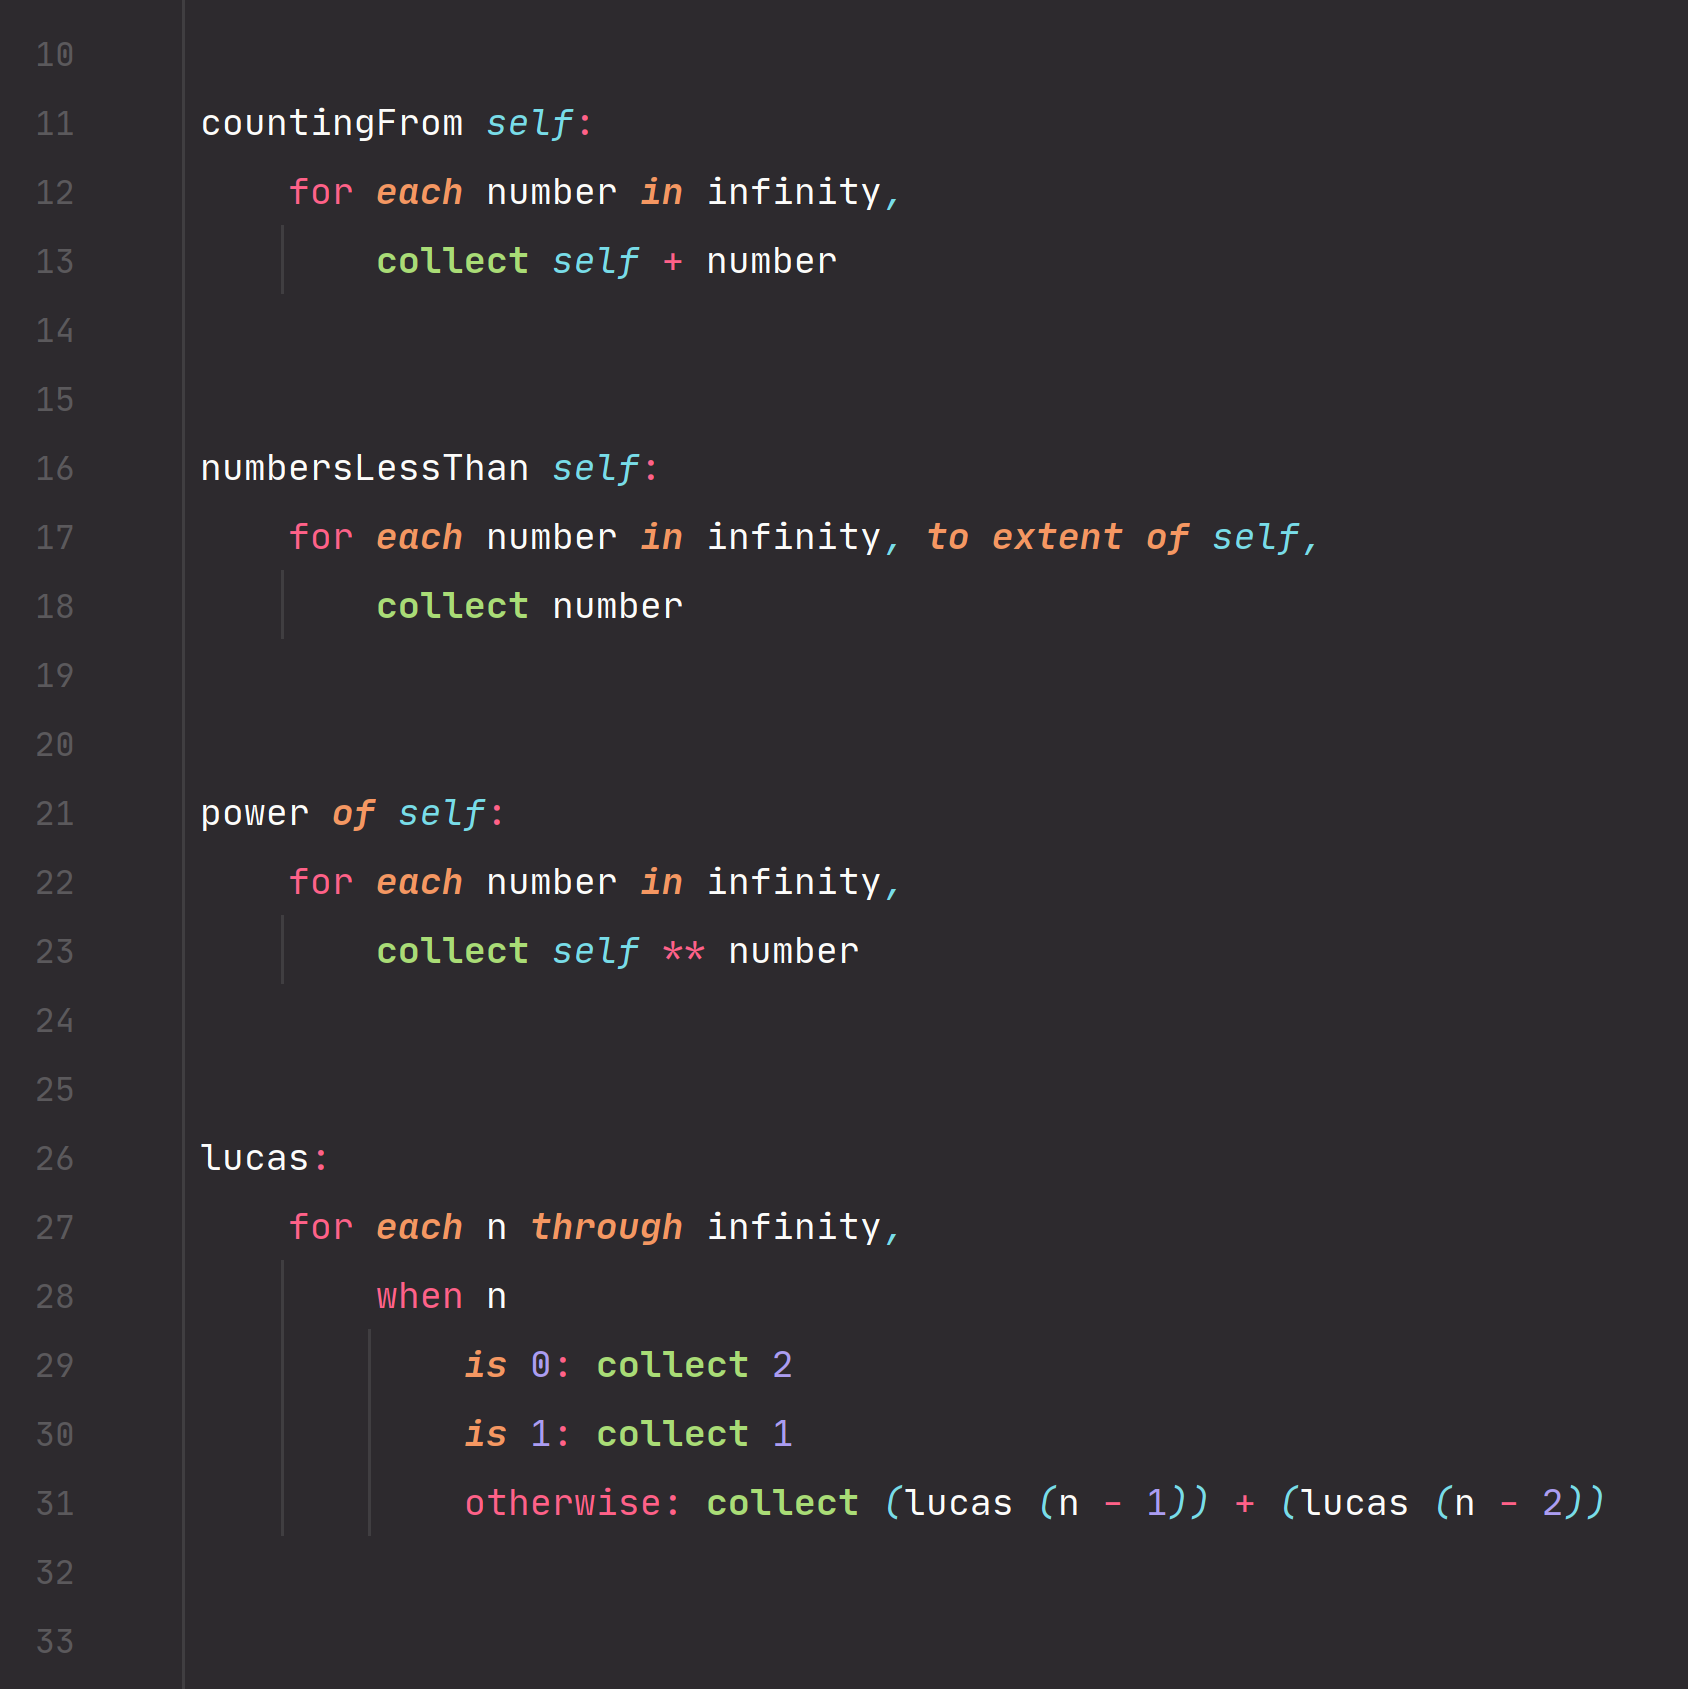
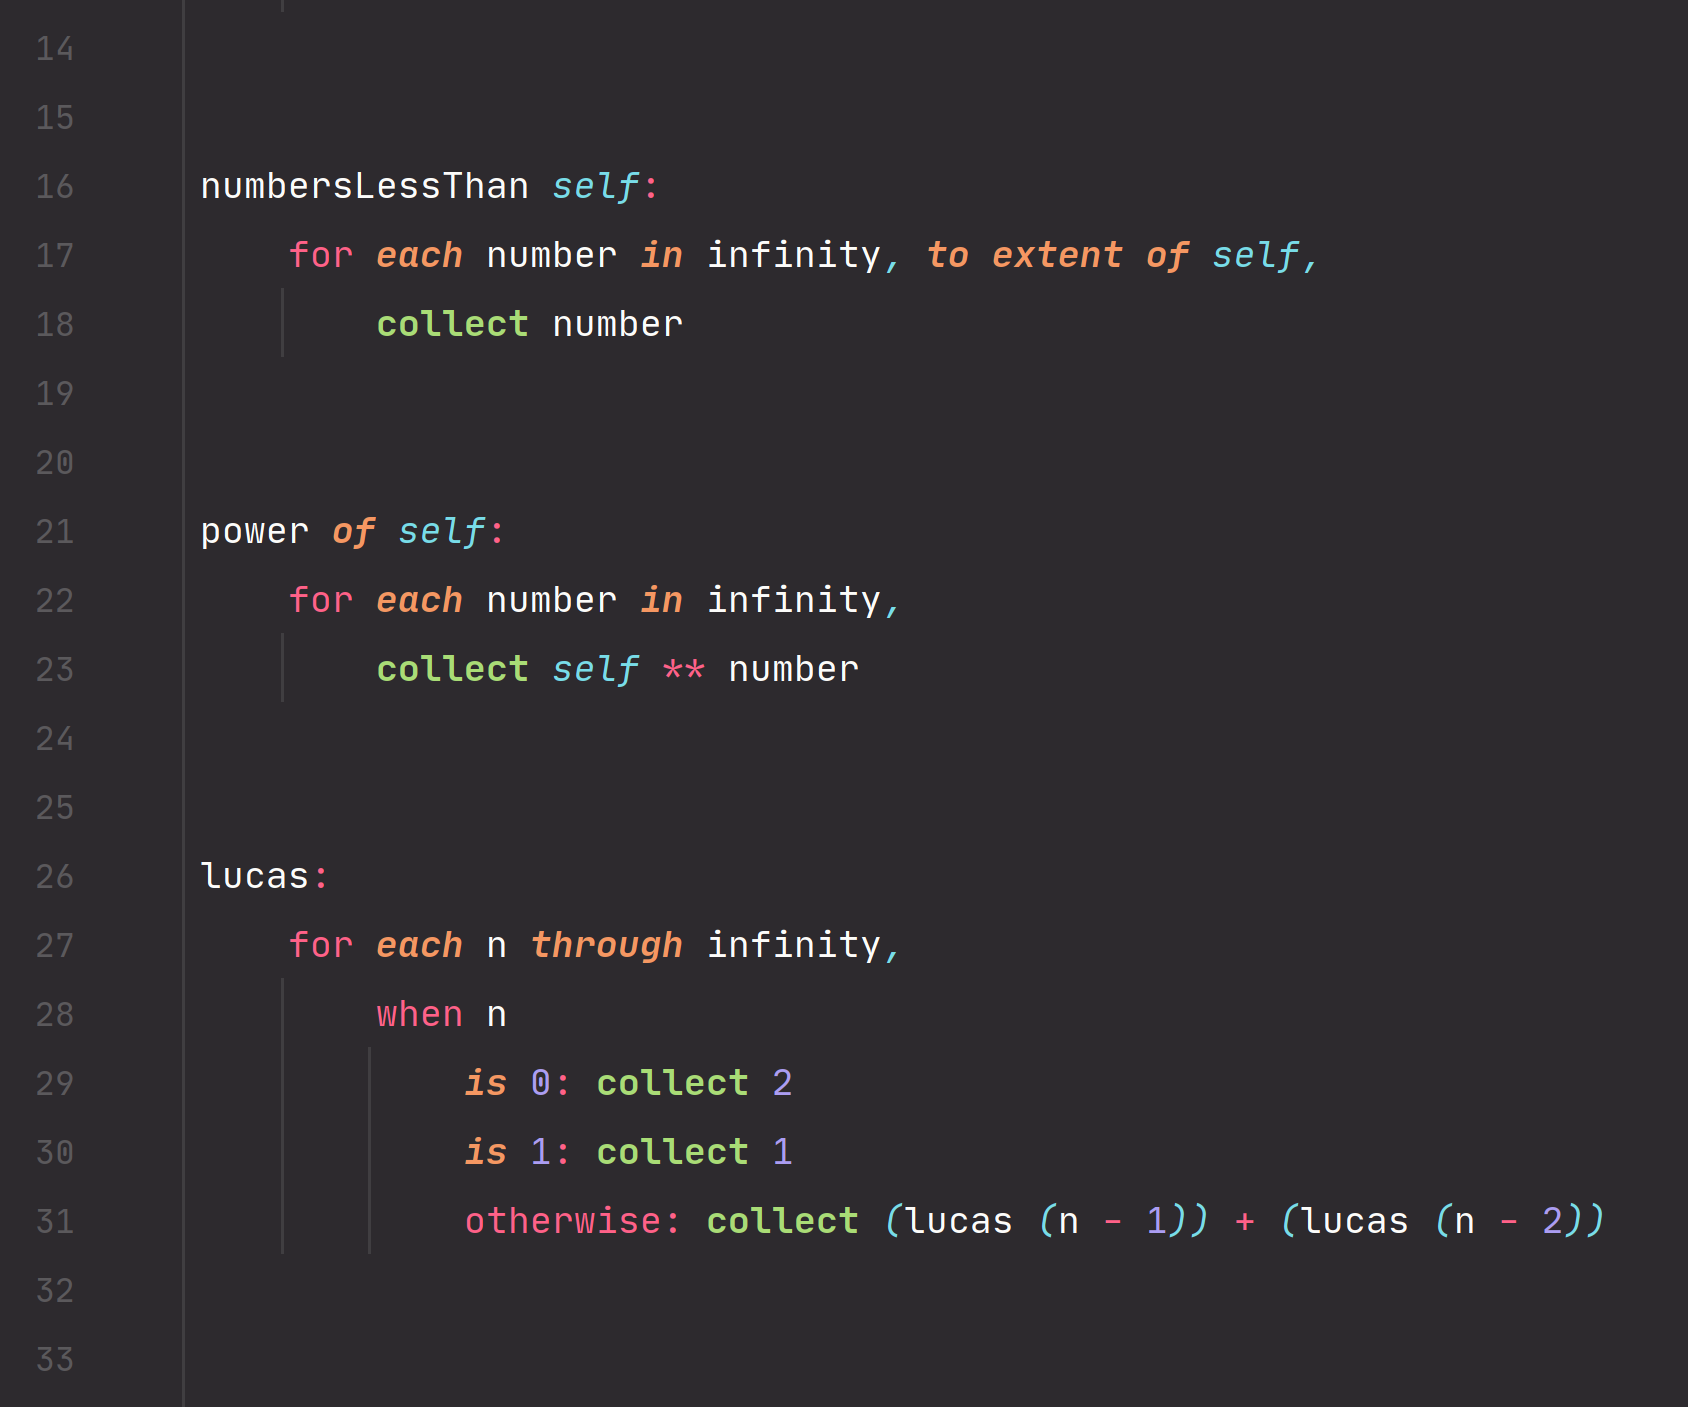
Shorten the sample image

diff --git a/README.md b/README.md
@@ -2,7 +2,7 @@
 
 ## Program beautifully.
 
-<img src="https://github.com/ducklang-community/ducklang/raw/main/sample.png" width="768" height="768" >
+<img src="https://github.com/ducklang-community/ducklang/raw/main/sample.png" width="768" height="640" >
 
 ## Install
 
